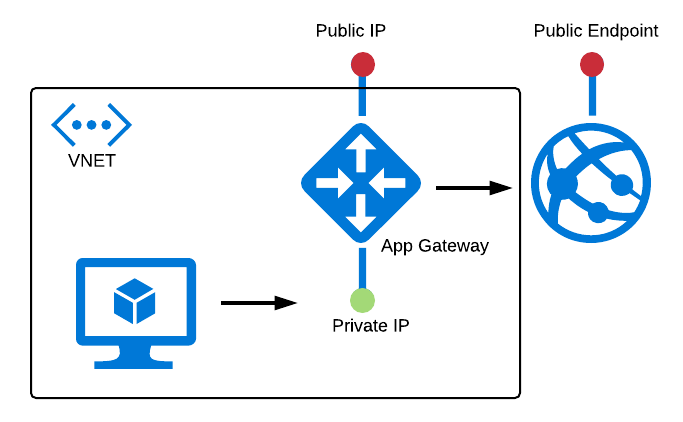
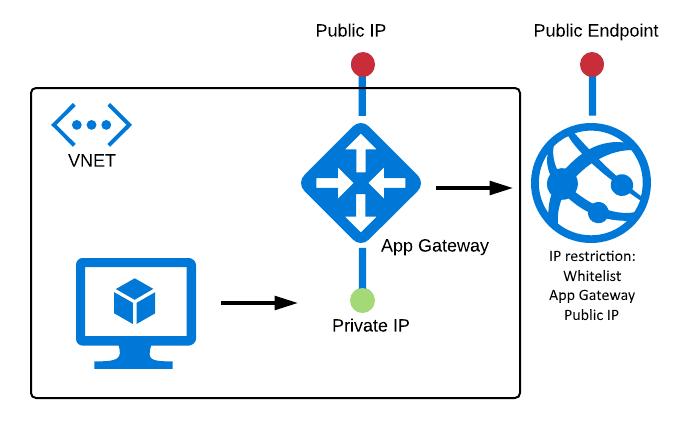
Fixed typo, improved diagram, changed screenshot

Changed region(s): [[0.7994, 0.5853, 0.9224, 0.7701]]

diff --git a/readme.md b/readme.md
@@ -13,11 +13,11 @@ In all honesty, this solution is a bit of a 'hack' because it makes use of routi
 
 Essentially we are going to set up:
 - a regular App Service; without fancy VNET integration
-- an App Gateway with both a public and a private UP
+- an App Gateway with both a public and a private IP
 - routing solely from that private IP to the App Service
 - finally whitelisting that public IP on the App Service
 
-This leads to the App Service being only accessible from the *private* ip address. Traffic flowing from the VNET to the App Service seems to be 'translated' to the public IP address (this is the funky bit) and hence be allowed access. And since there is no route from the public IP directly to the App Service; outside access is now blocked off.
+This leads to the App Service being only accessible from the *private* ip address. Traffic flowing from the VNET to the App Service is now 'translated' to the public IP address (this is the funky bit) and hence allowed access. And since there is no route from the public IP directly to the App Service; outside access is now blocked off.
 
 To put this into a diagram:
 
